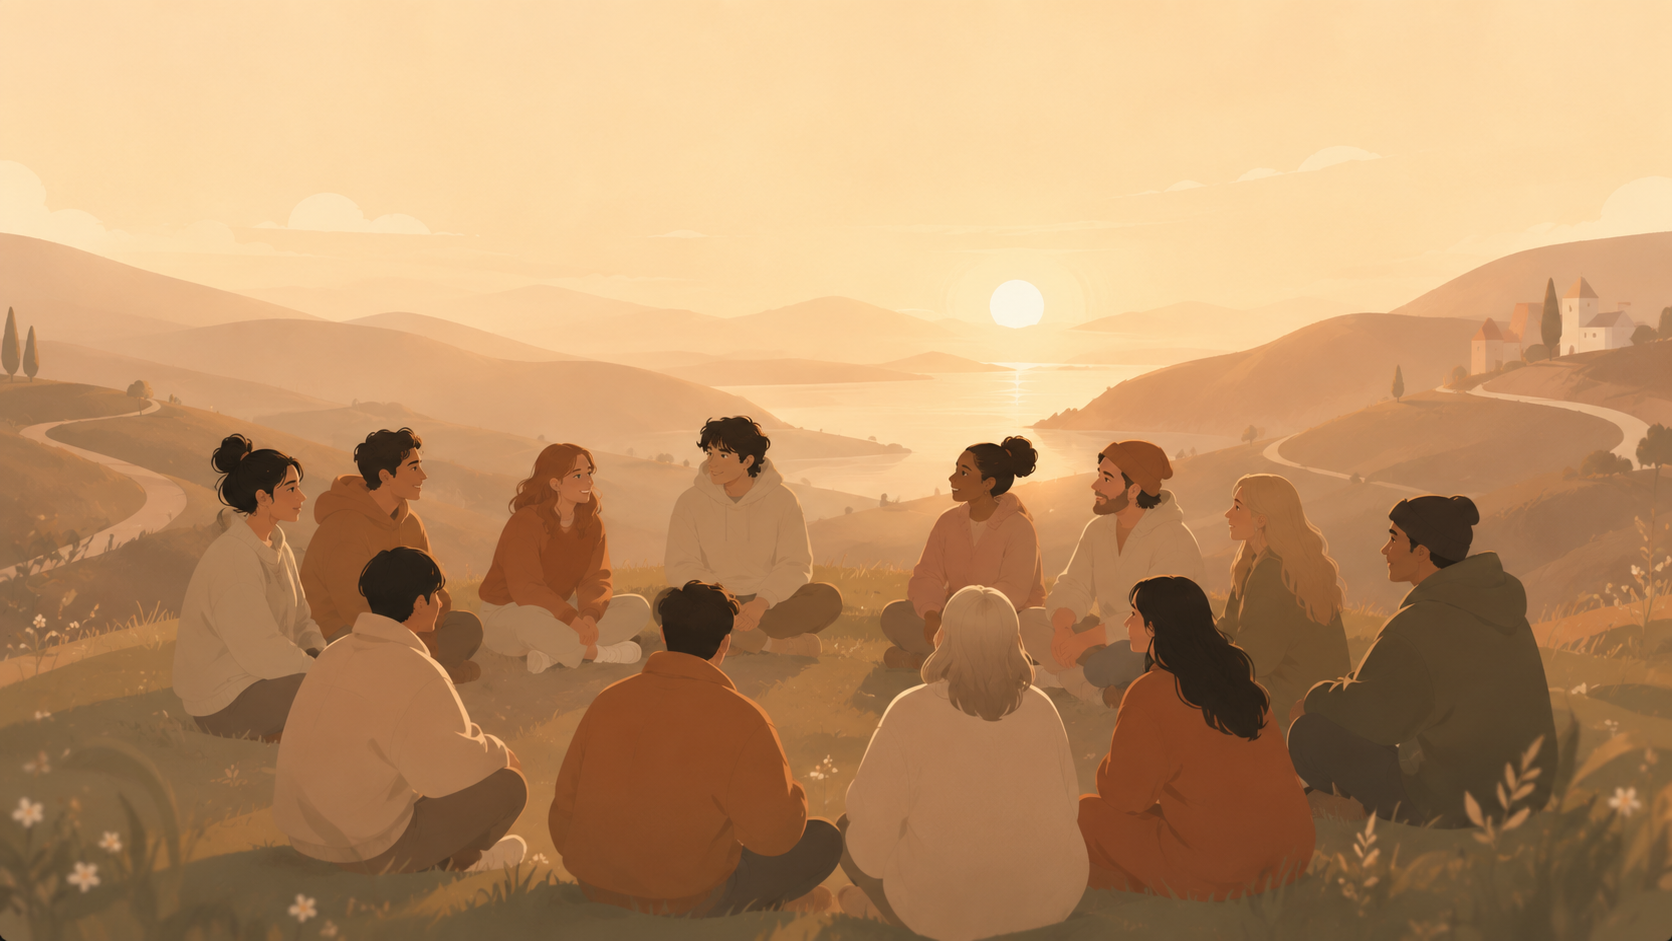
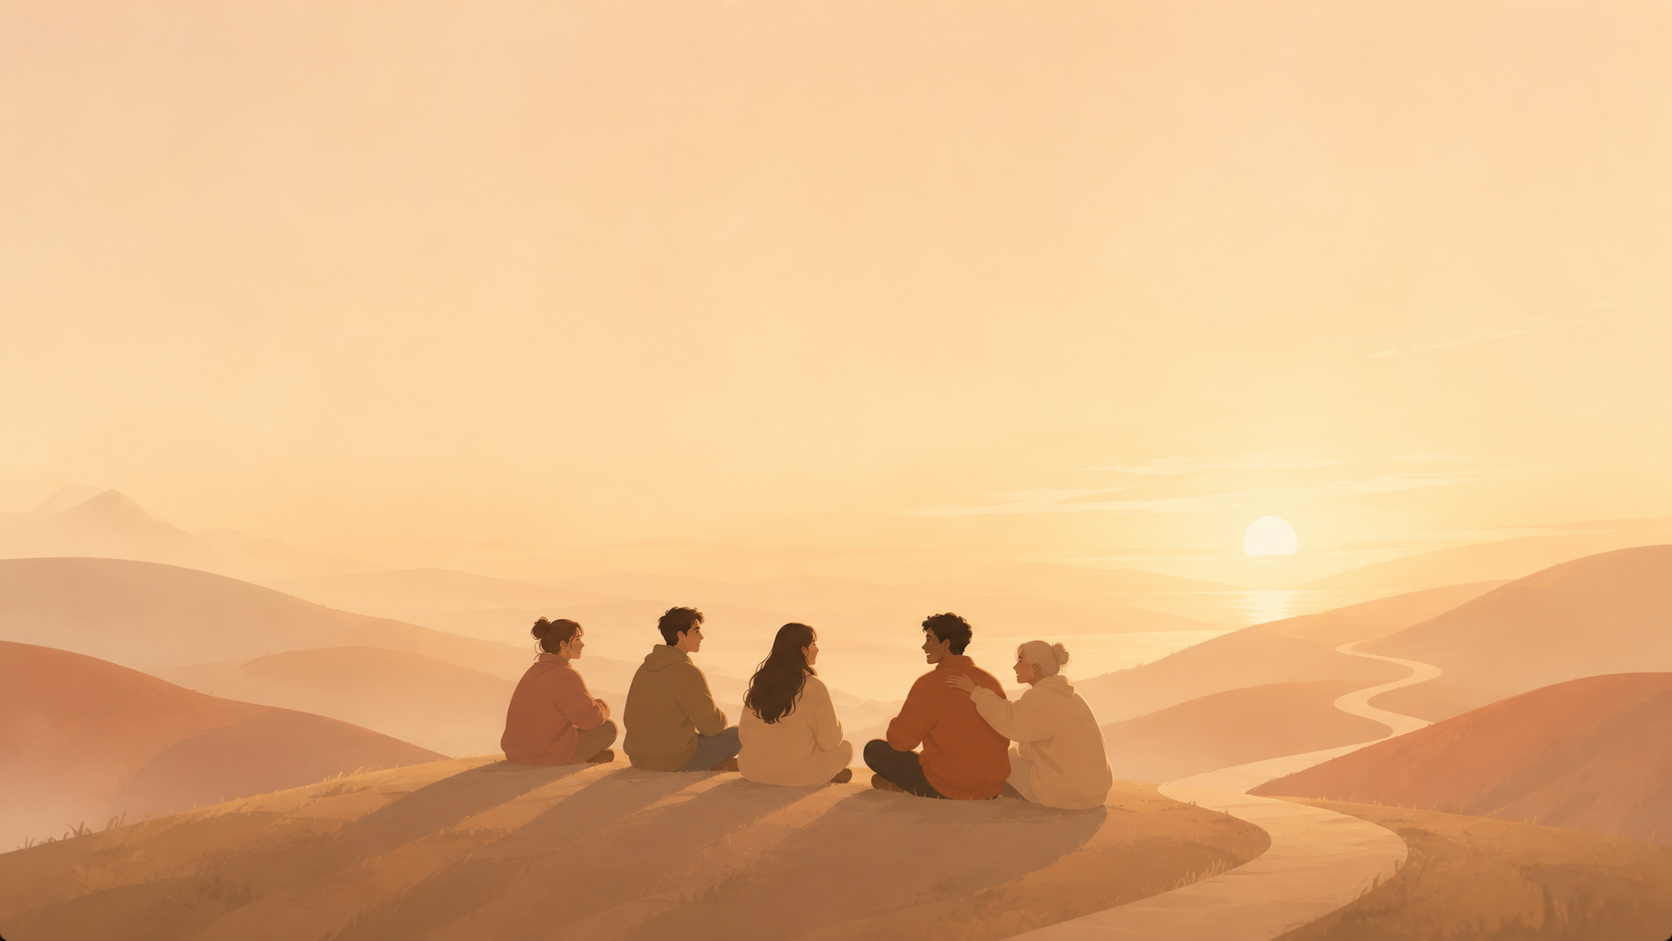
Swap hero image for a hilltop sunset scene with more open sky
Replaces the previous illustration (a tight circle of many people)
with a calmer composition, five people sitting together on a hilltop
looking out over hills and a winding path toward a sunset, chosen
specifically for how much clean open sky it leaves for the heading
text.

Re-tuned the veil for this composition: 0.3 rather than the previous
0.4, chosen by comparing several values live in the browser. This
composition already has soft, uncluttered negative space up top, so a
lighter veil keeps the sunset glow and the group visible while text
stays fully legible, more so than the previous image needed.

Also updated the image alt text to describe this specific scene.

Verified after a clean reload that the new image and veil persist
correctly.

diff --git a/src/app/_landing/LandingHero.tsx b/src/app/_landing/LandingHero.tsx
@@ -7,13 +7,13 @@ export function LandingHero() {
       <div className="absolute inset-0 -z-10">
         <Image
           src="/landing/hero.png"
-          alt="An illustrated circle of people sitting together on a hillside at sunset"
+          alt="An illustrated small group sitting together on a hilltop, looking out over rolling hills toward a sunset"
           fill
           priority
           sizes="100vw"
           className="animate-drift object-cover"
         />
-        <div className="absolute inset-0 bg-[rgba(247,243,238,0.4)]" />
+        <div className="absolute inset-0 bg-[rgba(247,243,238,0.3)]" />
         <div className="absolute inset-x-0 bottom-0 h-64 bg-gradient-to-b from-transparent to-bg" />
       </div>
 
